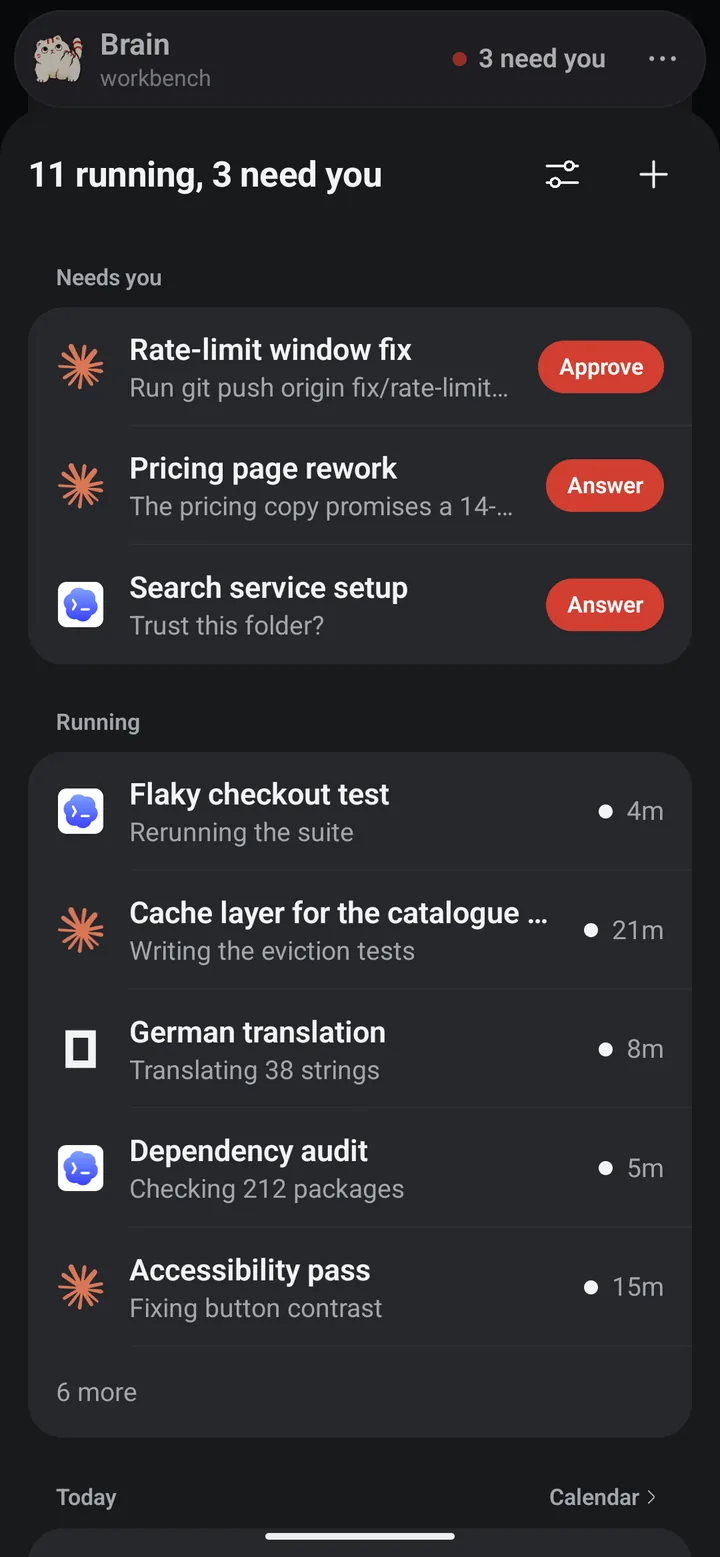
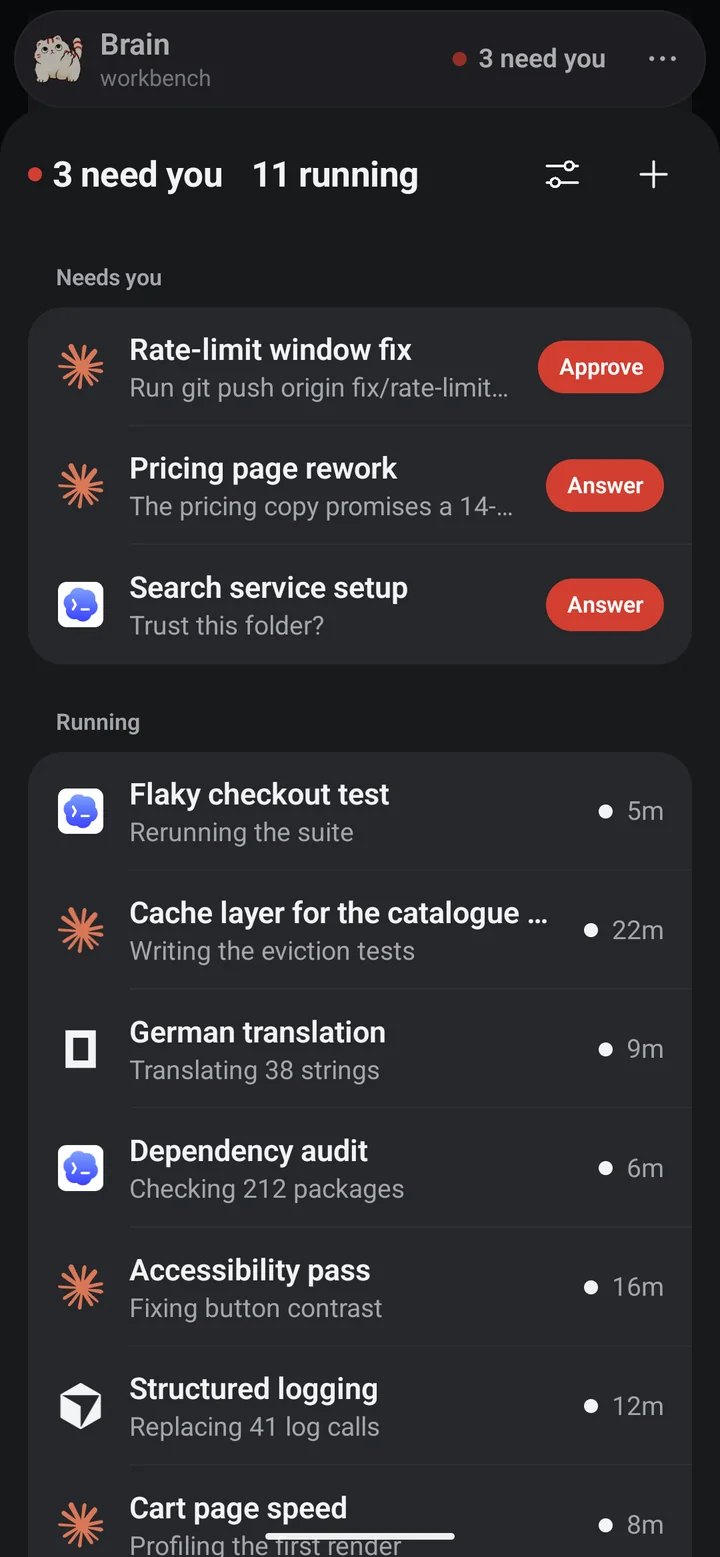
Landing: the tray shot shows the current tray (light and dark), retaken from the app's sample data

diff --git a/site/index.html b/site/index.html
@@ -118,7 +118,7 @@
       </ul>
     </div>
     <div class="pair">
-      <figure class="phone rise"><picture><source srcset="shots/tray-dark.webp" media="(prefers-color-scheme: dark)"><img src="shots/tray-light.webp" alt="The tray: 11 running, 3 need you" width="720" height="1557" loading="lazy"></picture></figure>
+      <figure class="phone rise"><picture><source srcset="shots/tray-dark.webp" media="(prefers-color-scheme: dark)"><img src="shots/tray-light.webp" alt="The tray: 3 need you, 11 running" width="720" height="1557" loading="lazy"></picture></figure>
       <figure class="phone rise later"><picture><source srcset="shots/session-dark.webp" media="(prefers-color-scheme: dark)"><img src="shots/session-light.webp" alt="A Claude Code Session as a chat: a code block, the edited files and a push to approve" width="720" height="1557" loading="lazy"></picture></figure>
     </div>
   </div>
